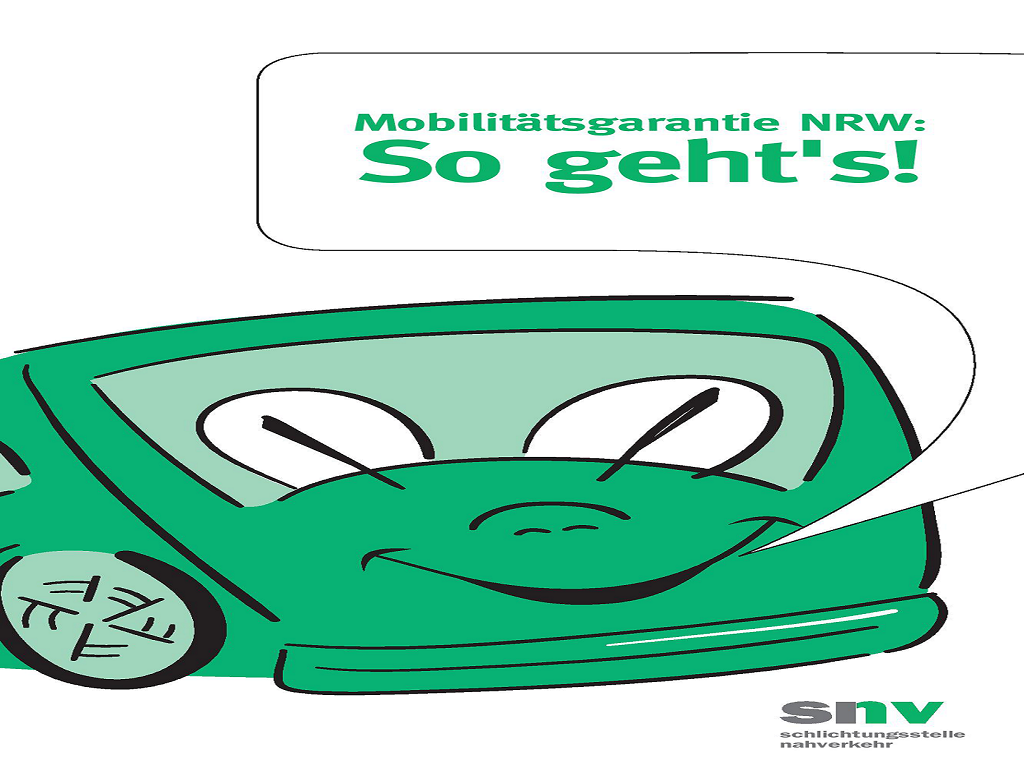
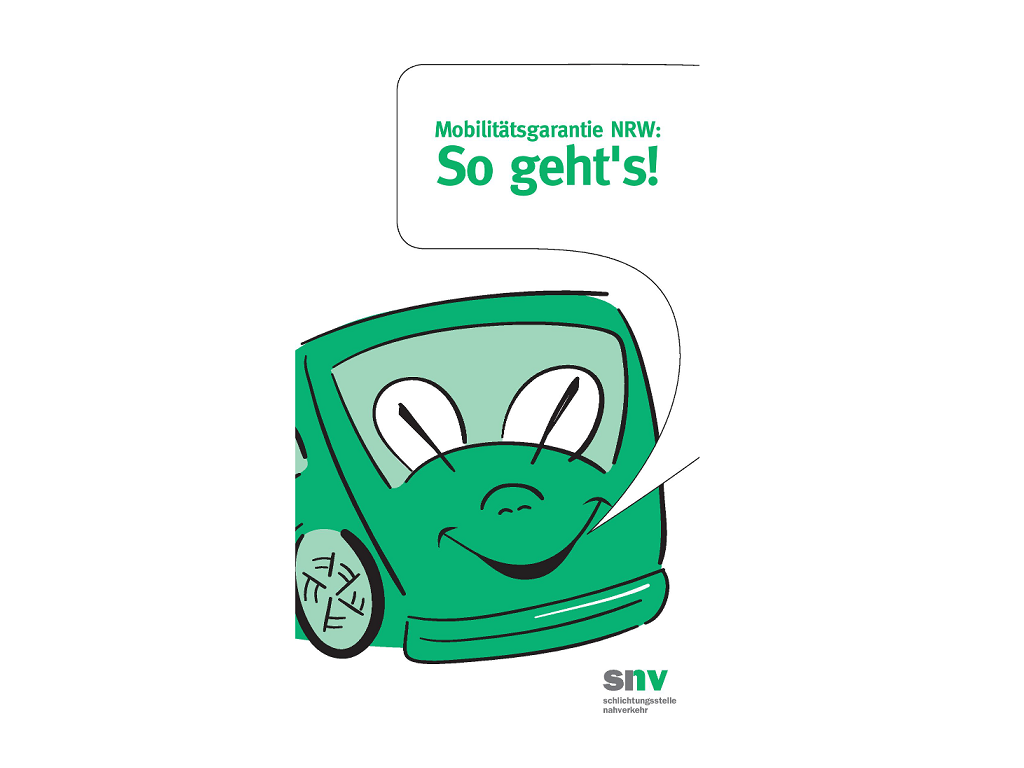
splash screen na androida
splash screen na androida

diff --git a/www/index.html b/www/index.html
@@ -61,6 +61,7 @@
 					<script>
 					var w=window.screen.width;
 					var h=window.screen.height;
+					/*
 					if(h>w)
 					{
 						$("#image_placeholder").html('<img src="startscreen.jpg" height="100%" width="100%" border=0>');
@@ -70,7 +71,7 @@
 						
 						$("#image_placeholder").html('<img src="startscreen.jpg" height="100%" border=0>');
 					}
-					
+					*/
 					</script>
 				</div>
  </div> 
